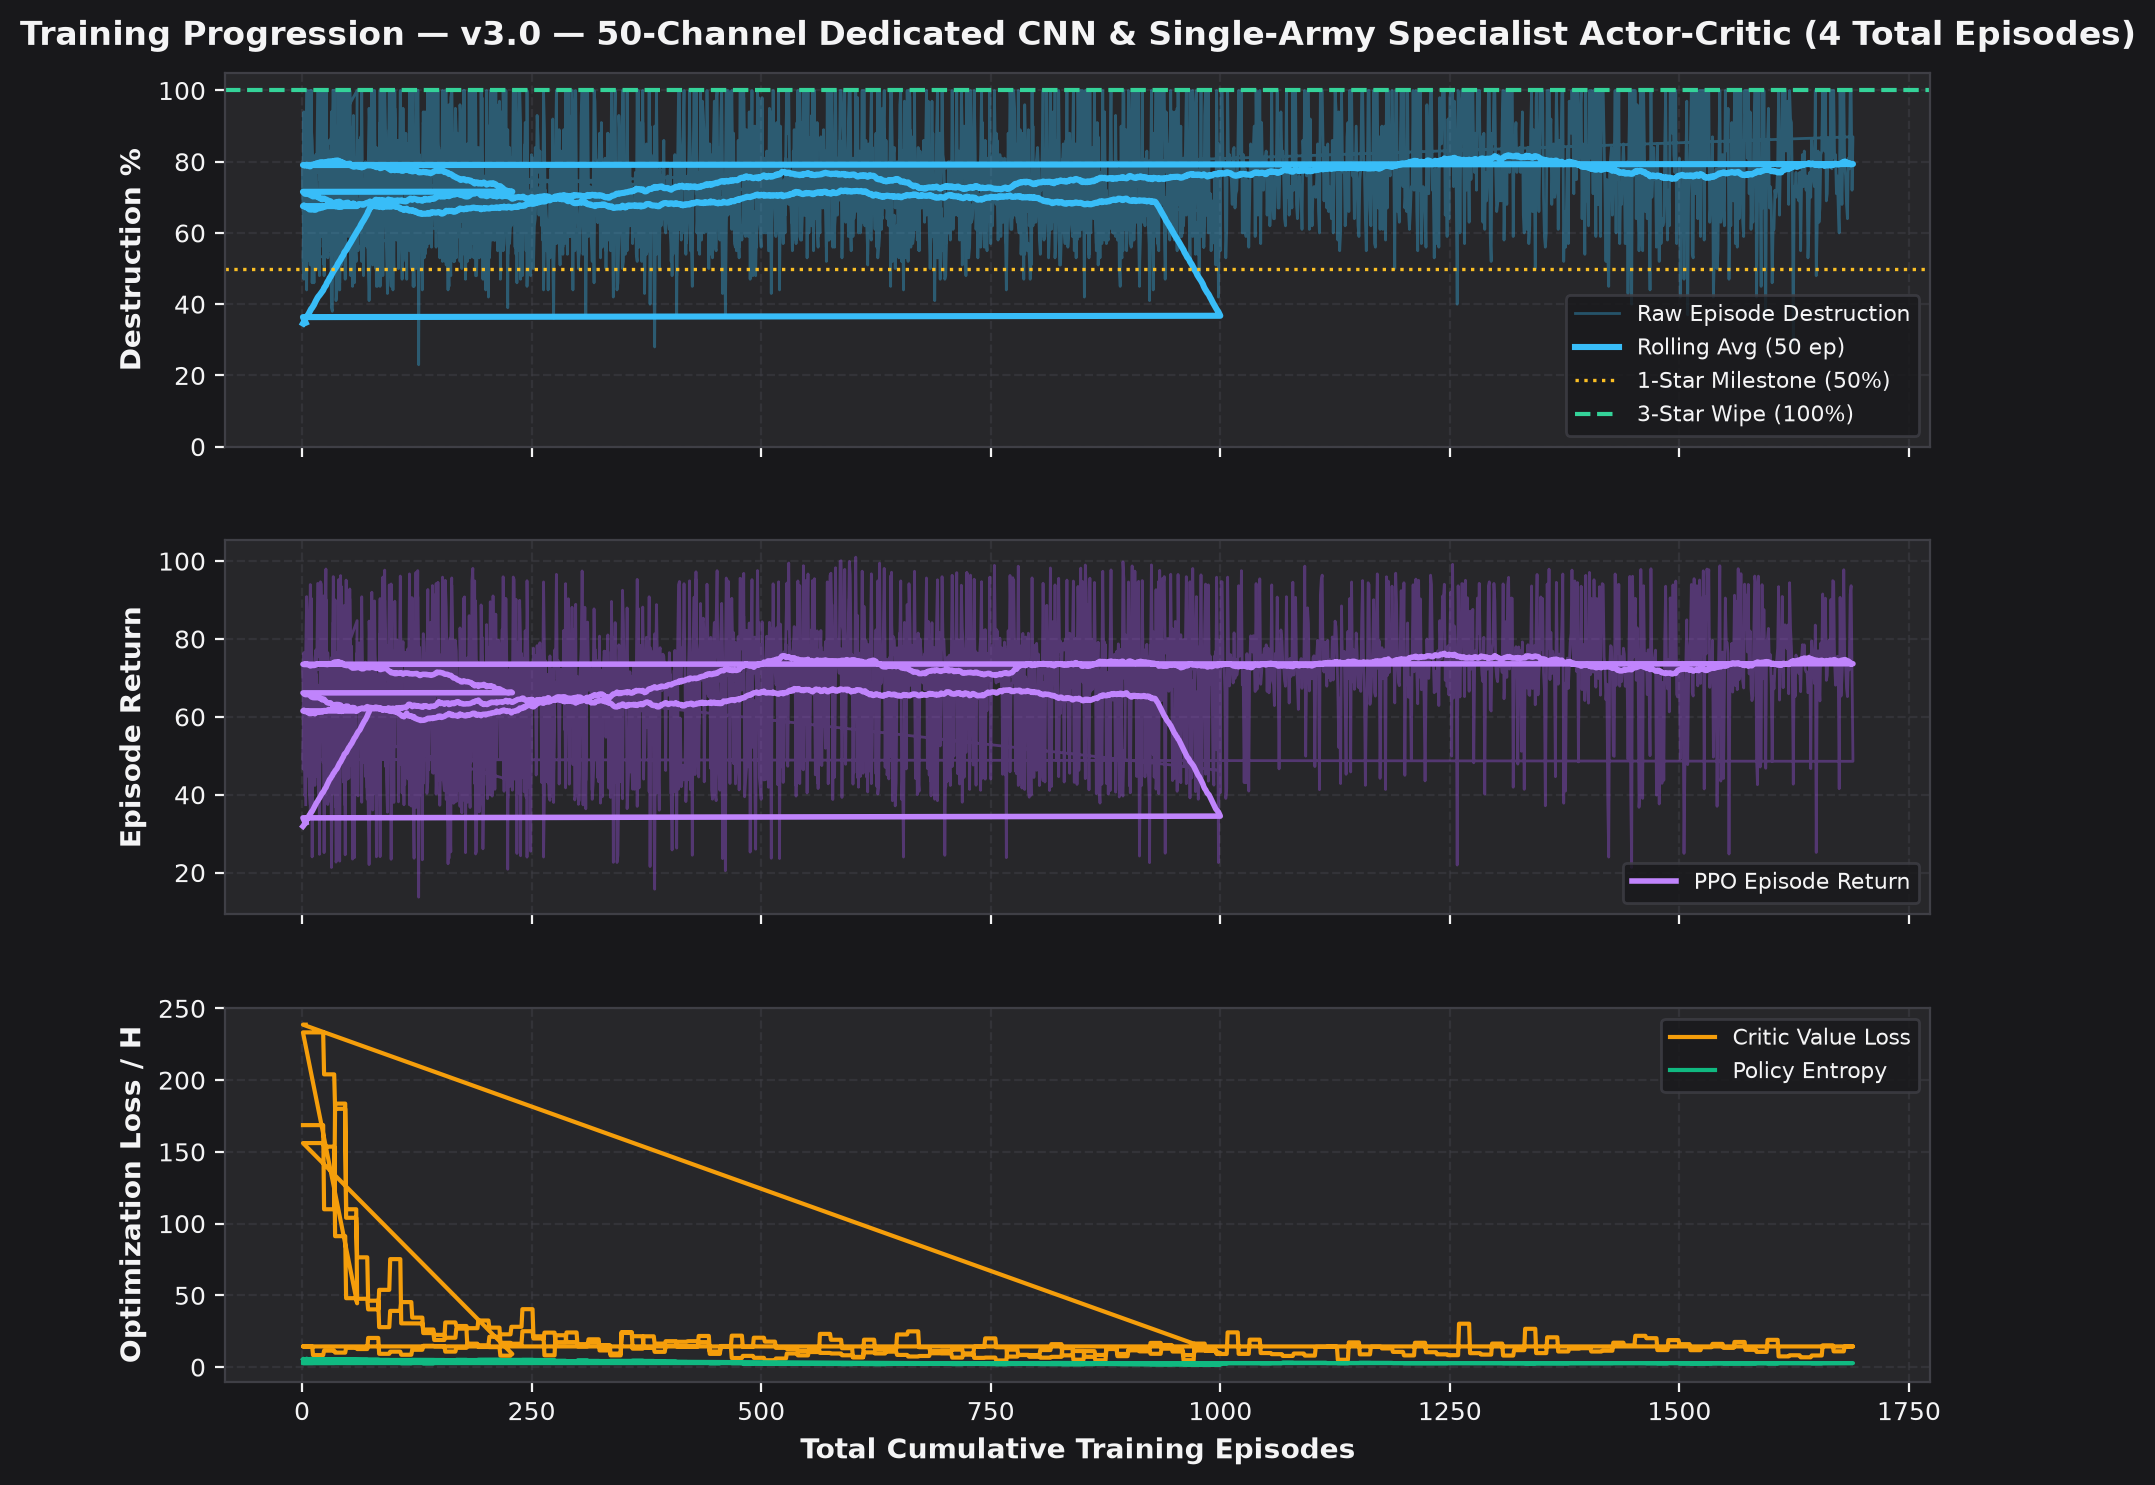
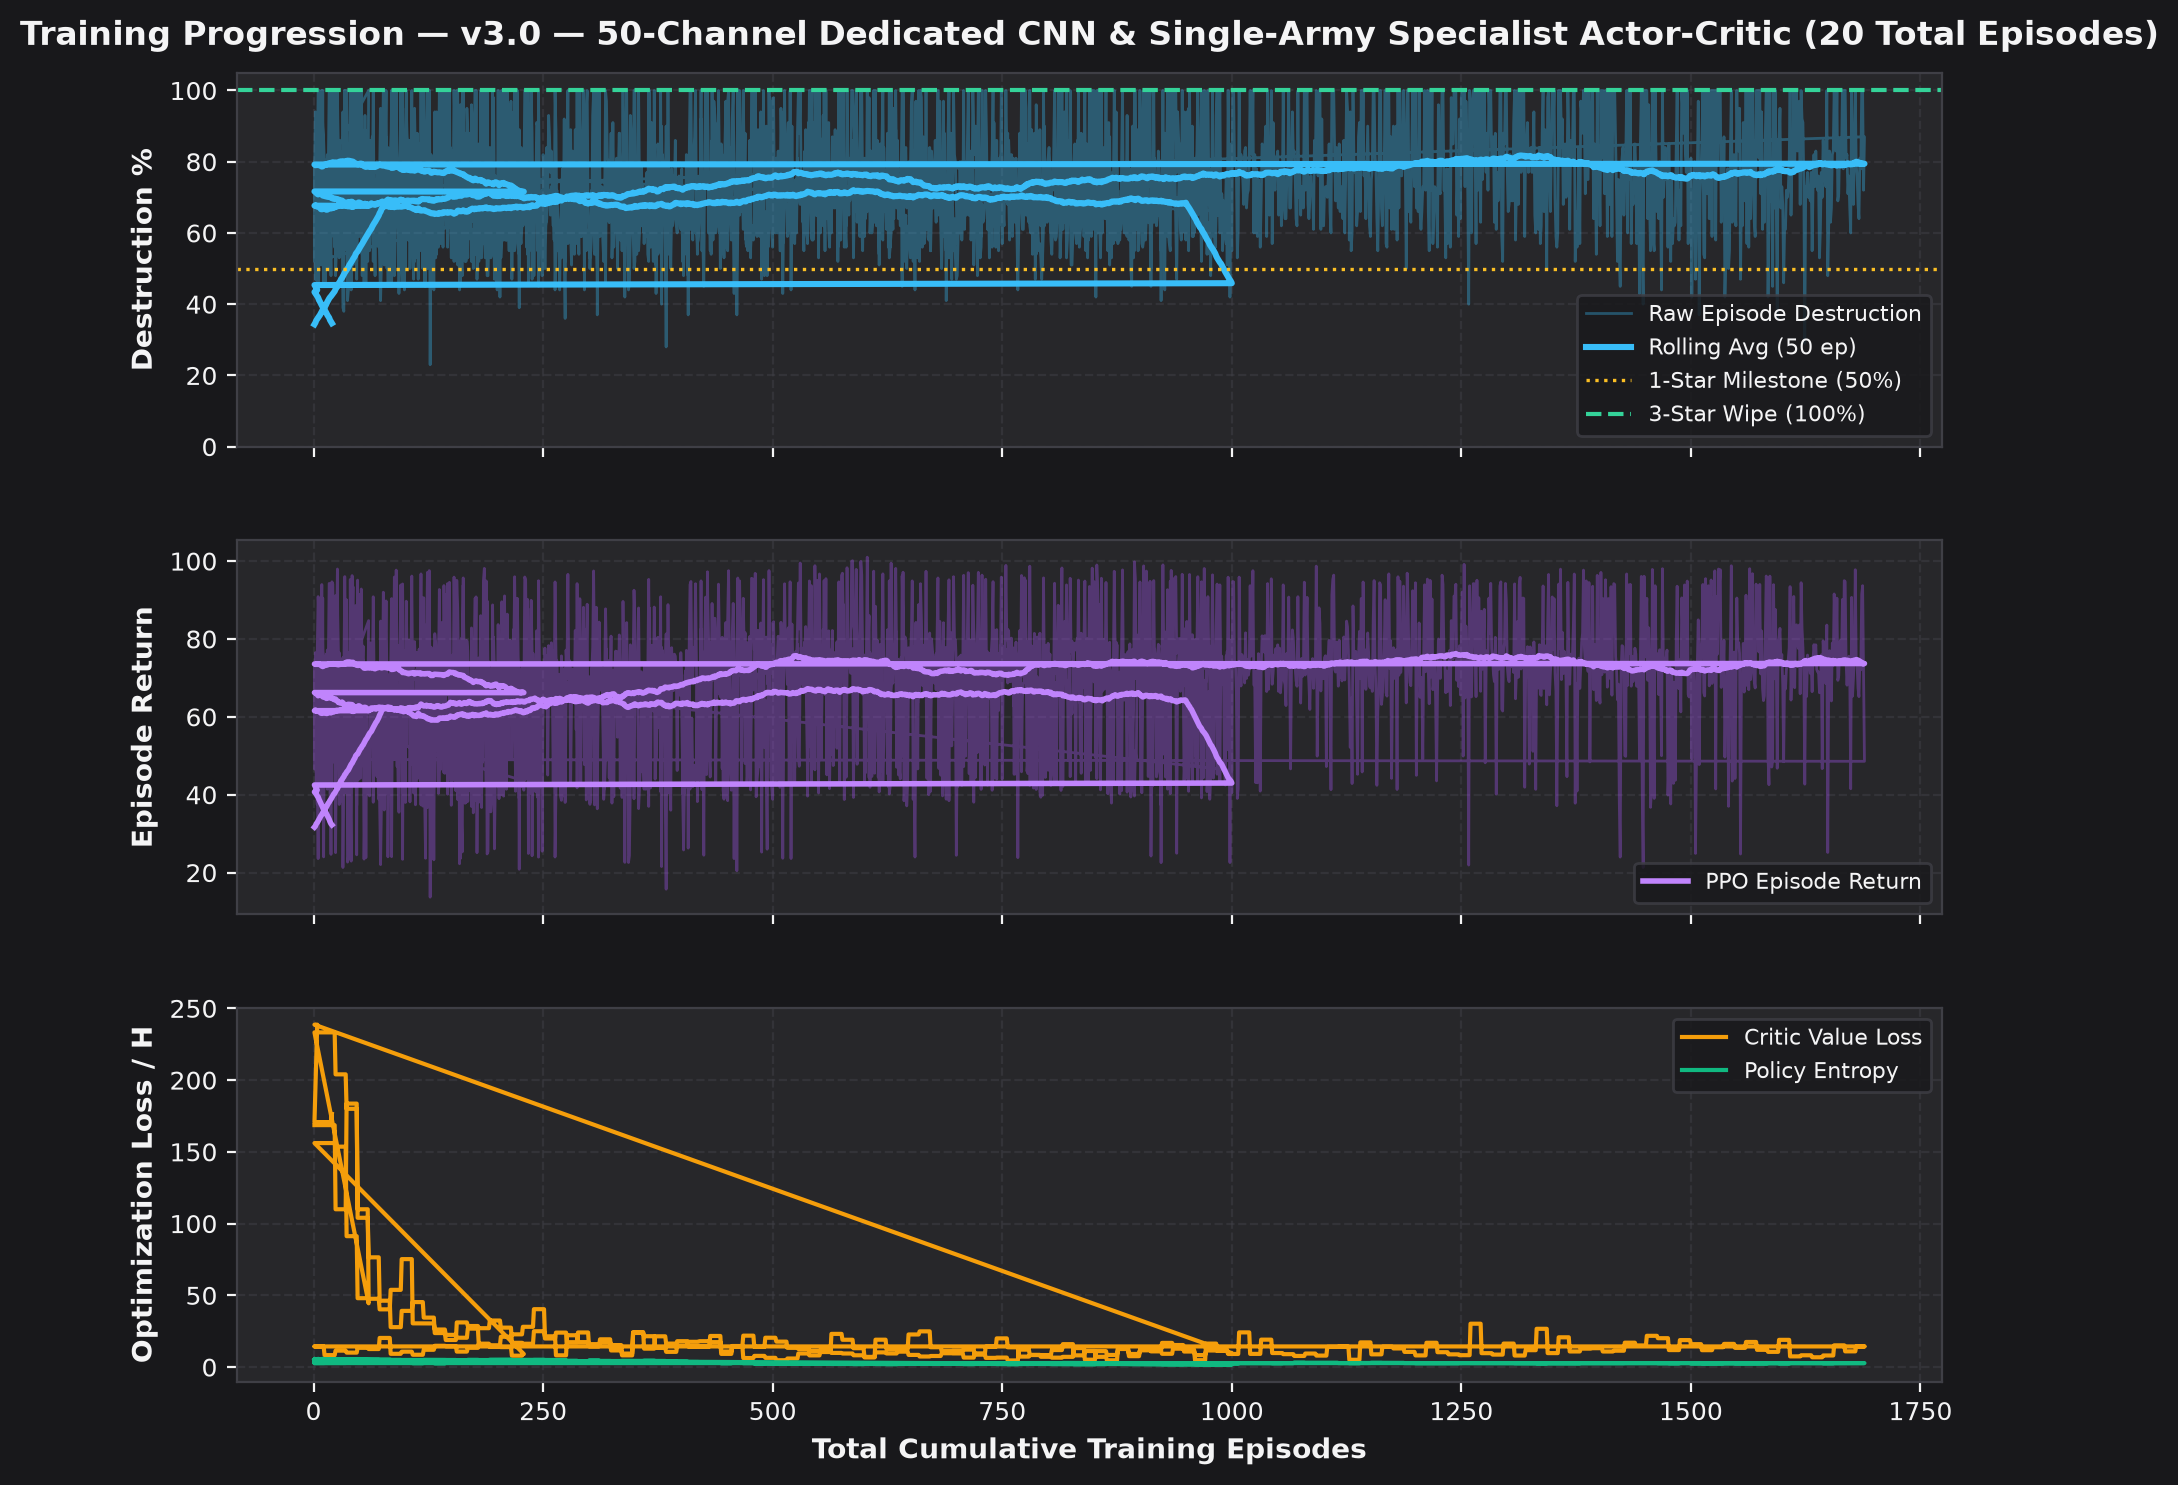
train(rl): 20-episode PPO session on thrower smash reaching 100% 3-star

diff --git a/obsidian_vault/runs/v3_per_defense_31ch.md b/obsidian_vault/runs/v3_per_defense_31ch.md
@@ -3,10 +3,10 @@ title: "v3.0 — 50-Channel Dedicated CNN & Single-Army Specialist Actor-Critic"
 model_id: "v3_per_defense_31ch"
 arch_version: "3.0"
 status: "active"
-total_episodes: 4
+total_episodes: 20
 best_pct: 100
 best_stars: 3
-updated_at: "2026-10-30 19:58:14"
+updated_at: "2026-10-30 20:00:34"
 tags:
   - coc-rl
   - ppo
@@ -26,9 +26,9 @@ Back to [[00_Index_MOC|Vault Map of Content]] • View [[01_Model_Architecture_a
 - **Architecture Version**: `v3.0` (`1,375,288` Trainable Parameters)
 - **Dedicated Army Composition**: **`TH18 Thrower + Healer + Totem Smash (Meta)`** (Exported in `.pt` checkpoint metadata for testing)
 - **Active Status**: **ACTIVE**
-- **Total Episodes Trained**: **`4`** (Cumulative across **5** training sessions)
+- **Total Episodes Trained**: **`20`** (Cumulative across **6** training sessions)
 - **Peak Combat Performance**: **`100%` (3★)** (Best dense return: `+101.01348554180662`)
-- **Latest Checkpoint**: `trained_models/thrower_healer_totem_smash_ep4_78pct_2star.pt`
+- **Latest Checkpoint**: `trained_models/thrower_healer_totem_smash_ep20_100pct_3star.pt`
 
 ### 🔄 Resumed Training Sessions History
 | Session # | Start Ep | End Ep | Episodes Added | Checkpoint File | Peak % | Stars | Notes |
@@ -38,12 +38,13 @@ Back to [[00_Index_MOC|Vault Map of Content]] • View [[01_Model_Architecture_a
 | **#3** | `0` | `60` | `+60` | `thrower_healer_totem_smash_ep60_100pct_3star.pt` | `100%` | `3★` | Initial training (60 ep) on TH18 Thrower + Healer + Totem Smash (Meta) |
 | **#4** | `0` | `1,000` | `+1,000` | `thrower_healer_totem_smash_ep1000_100pct_3star.pt` | `100%` | `3★` | Initial training (1,000 ep) on TH18 Thrower + Healer + Totem Smash (Meta) |
 | **#5** | `0` | `4` | `+4` | `thrower_healer_totem_smash_ep4_78pct_2star.pt` | `78%` | `2★` | Initial training (4 ep) on TH18 Thrower + Healer + Totem Smash (Meta) |
+| **#6** | `0` | `20` | `+20` | `thrower_healer_totem_smash_ep20_100pct_3star.pt` | `100%` | `3★` | Initial training (20 ep) on TH18 Thrower + Healer + Totem Smash (Meta) |
 
 ---
 
-## 1. Input Observation Space (`50 × 50 × 50` Spatial Grid + `64-D` Live Available Inventory)
+## 1. Input Observation Space (`59 × 50 × 50` Spatial Grid + `64-D` Live Available Inventory)
 
-- **Spatial Observation Tensor**: `(B, 50, 50, 50)` (`Ch 0..4` Base + `Ch 5..28` Dedicated Units/Heroes/Spells/Enemies + `Ch 29..49` 21 Defense Types)
+- **Spatial Observation Tensor**: `(B, 59, 50, 50)` (`Ch 0..4` Base + `Ch 5..28` Dedicated Units/Heroes/Spells/Enemies + `Ch 29..49` 21 Defense Types)
 - **Live Available Inventory Vector (`army_context`)**: `(B, 64)` (what troops, spells, heroes, equipment abilities, and siege machine are still available and in what remaining quantity; depleted slots zeroed out)
 
 | Ch # | Name | Mathematical Normalization | Tactical Functional Role |
@@ -146,8 +147,8 @@ $$R_t = 0.35 \cdot \Delta \%_{\text{destr}} + 15.0 \cdot \Delta \text{HP}_{\text
 
 | Attack Composition | **Central Box** | **Offset Diamond** | **Anti-Hydra Ring** | **Anti-Fireball** | **Compact Teaser** | **Avg Destruction** | **3★ Rate** |
 | :--- | :---: | :---: | :---: | :---: | :---: | :---: | :---: |
-| **TH18 Thrower + Healer + Totem Smash** | `56% (2★)` | `28% (1★)` | `33% (0★)` | `50% (2★)` | `61% (2★)` | **45.6%** | **0.0%** |
-| **Base Defense Rate (Avg)** | **56.0% (2.0★)** | **28.0% (1.0★)** | **33.0% (0.0★)** | **50.0% (2.0★)** | **61.0% (2.0★)** | **Overall: 45.6%** | — |
+| **TH18 Thrower + Healer + Totem Smash** | `73% (2★)` | `57% (2★)` | `100% (3★)` | `52% (2★)` | `69% (2★)` | **70.2%** | **20.0%** |
+| **Base Defense Rate (Avg)** | **73.0% (2.0★)** | **57.0% (2.0★)** | **100.0% (3.0★)** | **52.0% (2.0★)** | **69.0% (2.0★)** | **Overall: 70.2%** | — |
 
 ---
 
@@ -178,4 +179,4 @@ See [[experiments/AI_Diagnostics_And_Training_Fixes|AI Training Diagnostics, Tel
 | **GAE ($\lambda$)** | `0.95` | Generalized Advantage Estimation smoothing |
 | **Clip Coefficient** | `0.2` | PPO surrogate objective clipping range |
 | **Entropy Coefficient** | `0.015` | Normalized per-head exploration policy entropy bonus |
-| **Total Training Episodes** | **`4`** | **Cumulative episodes across all resumed sessions** |
+| **Total Training Episodes** | **`20`** | **Cumulative episodes across all resumed sessions** |

diff --git a/obsidian_vault/00_Index_MOC.md b/obsidian_vault/00_Index_MOC.md
@@ -25,15 +25,14 @@ Open the interactive 2D whiteboard visualizer presenting the 50-channel stacked 
 
 | Model Run | Arch | Inputs (`obs` + `army_context`) | Dedicated Army Composition | Total Episodes | Peak Combat Record | Status |
 | :--- | :---: | :---: | :--- | :---: | :---: | :---: |
-| [[runs/v3_per_defense_31ch\|v3.0 — 50-Channel Dedicated CNN & Single-Army Specialist Actor-Critic]] | `v3.0` | `(50, 50, 50)` + `64D` | **TH18 Thrower + Healer + Totem Smash (Meta)** | **`4`** (5 sessions) | **`100%` (3★)** | **ACTIVE** |
+| [[runs/v3_per_defense_31ch\|v3.0 — 50-Channel Dedicated CNN & Single-Army Specialist Actor-Critic]] | `v3.0` | `(59, 50, 50)` + `64D` | **TH18 Thrower + Healer + Totem Smash (Meta)** | **`20`** (6 sessions) | **`100%` (3★)** | **ACTIVE** |
 
 ---
 
 ## 📚 Technical Reference Sections
 
 ### 1. Neural Architecture (`architectures/`)
-- [[architectures/v3.0_59Ch_CascadedDilatedResNet_SingleArmy_ActorCritic|v3.0 — 59-Channel Cascaded Dilated ResNet & Single-Army Specialist Actor-Critic (1.48M Params)]]
-- [[architectures/v3.0_31Ch_PerDefense_SingleArmy_ActorCritic|v3.0 Legacy — 50-Channel Dedicated Spatial CNN & Single-Army Specialist Actor-Critic (1.38M Params)]]
+- [[architectures/v3.0_31Ch_PerDefense_SingleArmy_ActorCritic|v3.0 — 50-Channel Dedicated Spatial CNN & Single-Army Specialist Actor-Critic (1.38M Params)]]
 
 ### 2. Spatial & Inventory Tensor Encodings (`encodings/`)
 - [[encodings/Defense_And_Unit_Spatial_Encoding|50-Channel Dedicated Spatial Grid (Ch 0..49) & Live Available Inventory (64-D)]]
